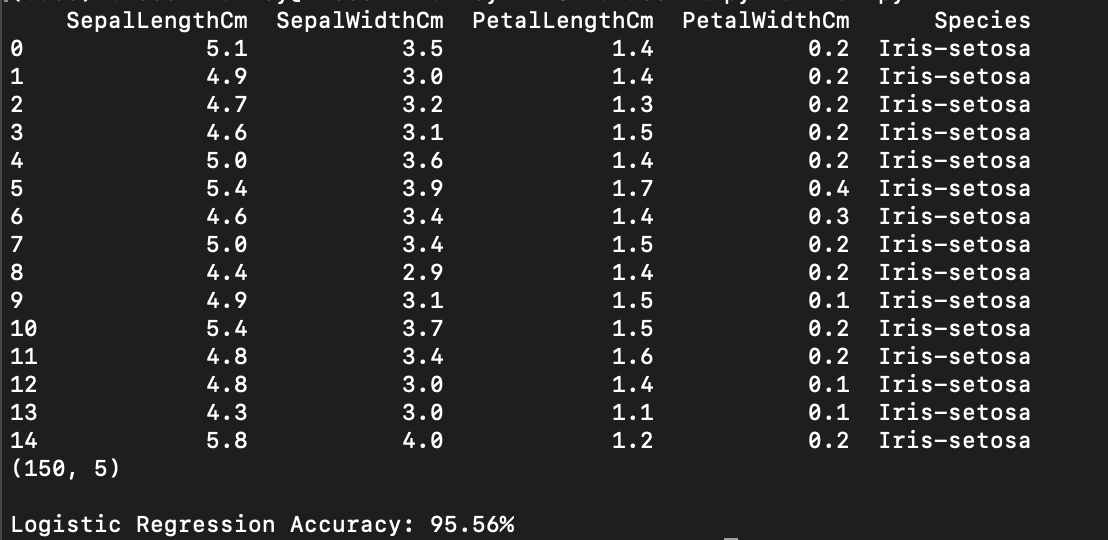
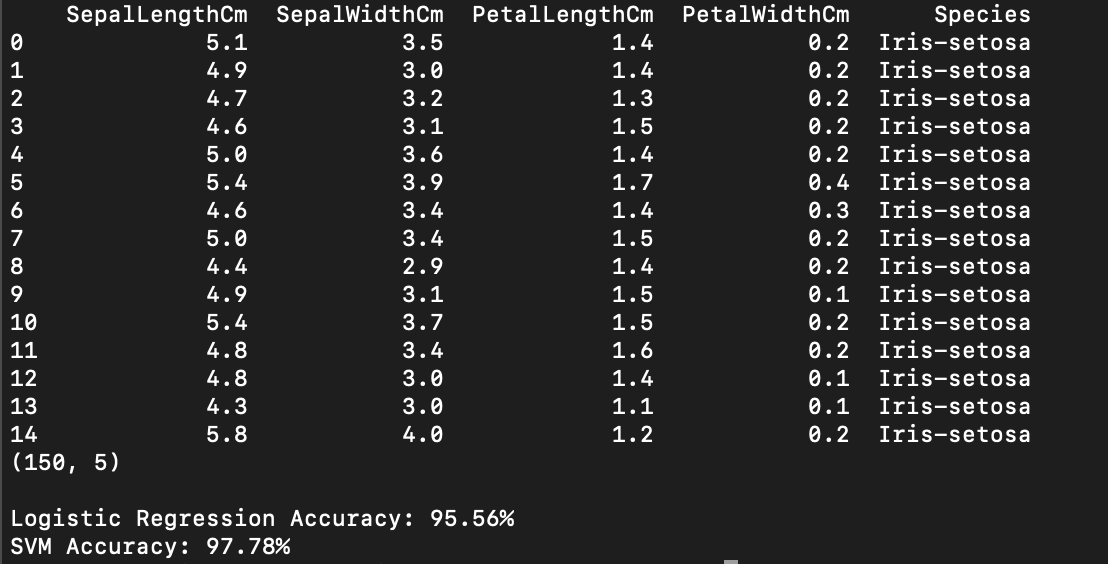
udpate SVM

diff --git a/run.py b/run.py
@@ -13,6 +13,11 @@ from sklearn.model_selection import train_test_split
 from sklearn.linear_model import LogisticRegression
 from sklearn.metrics import accuracy_score, roc_auc_score, roc_curve, classification_report
 from sklearn.preprocessing import LabelEncoder
+
+from sklearn import svm  #for Support Vector Machine (SVM) Algorithm
+from sklearn import metrics #for checking the model accuracy
+from sklearn.tree import DecisionTreeClassifier #for using Decision Tree Algoithm
+
 #Energy Usage
 import energyusage
 
@@ -83,6 +88,8 @@ def train_test_split(dataset, train_frac= 0.7, seed=1):
 
 (train_features, train_labels), (test_features, test_labels) = train_test_split(dataset, train_frac=0.7)
 
+
+#LogisticRegression
 lg = LogisticRegression()
 lg.fit(train_features, train_labels)
 lgpredict = lg.predict(test_features)
@@ -93,3 +100,10 @@ pred_lg = lg.predict(test_features)
 log_reg_predict_proba = lg.predict_proba(test_features)[:, 1]
 
 print('\nLogistic Regression Accuracy: {:.2f}%'.format(accuracy_score(test_labels, lgpredict) * 100))
+
+#SupportVectorMachines
+model = svm.SVC()
+model.fit(train_features, train_labels)
+prediction=model.predict(test_features)
+score = model.score(test_features, test_labels)
+print('SVM Accuracy: {:.2f}%'.format(accuracy_score(test_labels, prediction) * 100))
